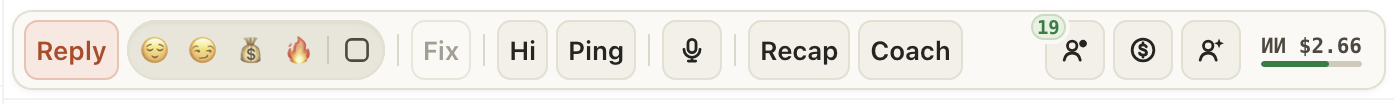
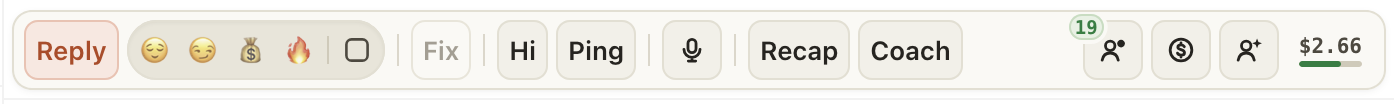
fix(dock): the AI limit is numbers alone — no «ИИ», the words in the hint
The owner: no extra words on the bar, the hint tells the rest. «$2.66 / $4.50»,
short «$2.66»; «котёл $18.40», short «котёл»; red «до 00:00». The widget is
~98 px in full and at most ~67 px short, so the steps of a bar with the limit
move: tight < 748, short < 695, icons < 664, no seams < 621, «Ещё» < 585
(remeasured on both stands, every state; nothing scrolls above ~450).

Changed region(s): [[0.7403, 0.1154, 0.9871, 0.6635], [0.7403, 0.75, 0.9254, 0.7788]]

diff --git a/packages/ui/src/dock/styles.ts b/packages/ui/src/dock/styles.ts
@@ -39,9 +39,9 @@
 //           and the chips closer still (a 320 px column, §6.5)
 //
 // A bar with the person's AI limit (2026-10-31) takes the same steps
-// earlier, measured with «ИИ $2.66 / $4.50» (~117 px of the row): tight
-// < 765, the limit short («ИИ $2.66») < 712, Recap and Coach icons < 663,
-// no seams < 620, the five icons in «Ещё» < 584; nothing scrolls above
+// earlier, measured with «$2.66 / $4.50» (~98 px of the row): tight
+// < 748, the limit short («$2.66») < 695, Recap and Coach icons < 664,
+// no seams < 621, the five icons in «Ещё» < 585; nothing scrolls above
 // ~450.
 //
 // No goose in the bar (decision X31): its cell is the room that keeps every
@@ -74,14 +74,15 @@ export const SEAMS_BELOW = 552;
 export const MORE_BELOW = 420;
 /**
  * The same steps for a bar that carries the person's AI limit (`has-ailimit`: 6 of 8 chatters on 2026-10-31), measured
- * with it on both stands: «ИИ $2.66 / $4.50» takes ~117 px of the row, so every step comes earlier, and below
- * `AI_SHORT_BELOW` the limit itself is short («ИИ $2.66», ~66 px) before Recap and Coach give up their words.
+ * with it on both stands: «$2.66 / $4.50» takes ~98 px of the row, so every step comes earlier, and below
+ * `AI_SHORT_BELOW` the limit itself is short («$2.66»; at most ~67 px, the red «до 00:00») before Recap and Coach
+ * give up their words.
  */
-export const AI_TIGHT_BELOW = 765;
-export const AI_SHORT_BELOW = 712;
-export const AI_ICONS_BELOW = 663;
-export const AI_SEAMS_BELOW = 620;
-export const AI_MORE_BELOW = 584;
+export const AI_TIGHT_BELOW = 748;
+export const AI_SHORT_BELOW = 695;
+export const AI_ICONS_BELOW = 664;
+export const AI_SEAMS_BELOW = 621;
+export const AI_MORE_BELOW = 585;
 
 /** A step of the bar, laid down twice: at its own width for every bar, and at the wider one for a bar with the AI limit. */
 function barStep(below: number, withLimit: number, rules: (strip: string) => string): string {
@@ -303,7 +304,7 @@ ${barStep(
   ${strip} .cg-tones__track { gap: 2px; }
 `,
 )}
-${/* The AI limit short: «ИИ $2.66» over its bar, the limit in the bar's fill and in the hint. */ ''}
+${/* The AI limit short: «$2.66» over its bar, the limit in the bar's fill and in the hint. */ ''}
 @container cg (max-width: ${AI_SHORT_BELOW - 1}px) {
   .cg-ailimit__long { display: none; }
   .cg-ailimit__short { display: inline; }

diff --git a/packages/ui/src/dock/Strip.tsx b/packages/ui/src/dock/Strip.tsx
@@ -92,11 +92,11 @@ function Quota({ count, text }: { readonly count: number; readonly text: string 
 }
 
 /**
- * `ai-limit-v1`: the person's own daily AI limit — «ИИ $1.20 / $3.50» over a thin bar on the bar's right, amber from
- * 80 %, «ИИ котёл $5.39» in amber while it takes from the team's shared pool, red when both are spent («ИИ до 00:00»).
- * On a narrower composer it is short — «ИИ $1.20», «ИИ котёл», «ИИ выкл»: the bar's fill is the share, the rest is in
- * the hint (2026-10-31: in full words the bar ran out of a ~690 px Fansly composer). Its hint says it in words
- * whatever the hints setting is.
+ * `ai-limit-v1`: the person's own daily AI limit — «$1.20 / $3.50» over a thin bar on the bar's right, amber from
+ * 80 %, «котёл $5.39» in amber while it takes from the team's shared pool, red when both are spent («до 00:00»).
+ * No «ИИ» before it (the owner, 2026-10-31: no extra words, the hint tells the rest). On a narrower composer it is
+ * short — «$1.20», «котёл»: the bar's fill is the share (in full it ran out of a ~690 px Fansly composer). Its hint
+ * says it in words whatever the hints setting is.
  */
 function AiLimit({ vm, text, short, tooltip }: { readonly vm: AiLimitVM; readonly text: string; readonly short: string; readonly tooltip: string }): JSX.Element {
   const tip = useTooltip(tooltip);
@@ -125,9 +125,9 @@ function aiLimitText(vm: AiLimitVM, t: Translate): string {
 }
 
 function aiLimitShort(vm: AiLimitVM, t: Translate): string {
-  if (vm.level === 'out') return t('dock.aiLimit.outShort');
+  if (vm.level === 'out') return t('dock.aiLimit.out');
   if (vm.level === 'pool') return t('dock.aiLimit.poolShort');
-  return t('dock.aiLimit.short', { spent: vm.spent });
+  return vm.spent;
 }
 
 function aiLimitTooltip(vm: AiLimitVM, t: Translate): string {

diff --git a/packages/contracts/src/i18n/keys.ts b/packages/contracts/src/i18n/keys.ts
@@ -327,7 +327,7 @@ export const UI_TEXT_KEYS = [
   'popup.personaNone', 'popup.notConnected', 'popup.account', 'popup.signOut', 'popup.dialog', 'popup.dialogAccount', 'popup.copiedId', 'popup.copyChatId',
   'popup.quota', 'popup.quotaLeft', 'popup.quotaReset', 'popup.quotaHubDown', 'popup.btn.spenders', 'popup.btn.newcomers',
   // The person's own daily AI limit (`ai-limit-v1`): the dock's chip, the popup's line, the 80 % and 100 % toasts.
-  'dock.aiLimit.label', 'dock.aiLimit.tooltip', 'dock.aiLimit.tooltipPool', 'dock.aiLimit.pool', 'dock.aiLimit.poolTooltip', 'dock.aiLimit.out', 'dock.aiLimit.short', 'dock.aiLimit.poolShort', 'dock.aiLimit.outShort', 'popup.aiLimit', 'popup.aiLimitValue', 'popup.aiLimitLeft', 'popup.aiLimitResets', 'popup.aiLimitOwnSpent', 'popup.aiLimitPoolLeft', 'popup.aiLimitOff', 'popup.aiLimitTooltip', 'popup.aiNoLimit', 'popup.aiNoLimitTooltip', 'toast.aiLimitLow.title', 'toast.aiLimitLow.body', 'toast.aiLimitLow.bodyPool', 'toast.aiLimitPool.title', 'toast.aiLimitPool.body', 'toast.aiLimitOut.title', 'toast.aiLimitOut.body',
+  'dock.aiLimit.label', 'dock.aiLimit.tooltip', 'dock.aiLimit.tooltipPool', 'dock.aiLimit.pool', 'dock.aiLimit.poolTooltip', 'dock.aiLimit.out', 'dock.aiLimit.poolShort', 'popup.aiLimit', 'popup.aiLimitValue', 'popup.aiLimitLeft', 'popup.aiLimitResets', 'popup.aiLimitOwnSpent', 'popup.aiLimitPoolLeft', 'popup.aiLimitOff', 'popup.aiLimitTooltip', 'popup.aiNoLimit', 'popup.aiNoLimitTooltip', 'toast.aiLimitLow.title', 'toast.aiLimitLow.body', 'toast.aiLimitLow.bodyPool', 'toast.aiLimitPool.title', 'toast.aiLimitPool.body', 'toast.aiLimitOut.title', 'toast.aiLimitOut.body',
   'popup.btn.keys', 'popup.btn.settings', 'popup.whatsNew', 'popup.history', 'popup.refreshStatus', 'popup.version',
   'signIn.title', 'signIn.login', 'signIn.password', 'signIn.submit', 'signIn.pending',
   'settings.label',

diff --git a/packages/core/src/domain/i18n/ru.ts b/packages/core/src/domain/i18n/ru.ts
@@ -1812,15 +1812,13 @@ export const RU: I18nCatalog<'ru'> = {
   'popup.copiedId': 'Номер скопирован',
   'popup.copyChatId': 'Скопировать номер чата {id}',
   'popup.quota': 'Квота ИИ',
-  'dock.aiLimit.label': 'ИИ {spent} / {limit}',
+  'dock.aiLimit.label': '{spent} / {limit}',
   'dock.aiLimit.tooltip': 'Ваш лимит ИИ на сегодня: потрачено {spent} из {limit}. Обнулится в 00:00 по Москве.',
   'dock.aiLimit.tooltipPool': 'Ваш лимит ИИ на сегодня: потрачено {spent} из {limit}. Кончится, и ИИ будет брать из общего котла команды: сейчас в нём {pool}. Обнулится в 00:00 по Москве.',
-  'dock.aiLimit.pool': 'ИИ котёл {pool}',
+  'dock.aiLimit.pool': 'котёл {pool}',
   'dock.aiLimit.poolTooltip': 'Ваш лимит {limit} на сегодня потрачен, ИИ берёт из общего котла команды: это то, что все недотратили вчера. В котле осталось {pool} на всех. Котёл кончится, и ИИ выключится до 00:00 по Москве.',
-  'dock.aiLimit.out': 'ИИ до 00:00',
-  'dock.aiLimit.short': 'ИИ {spent}',
-  'dock.aiLimit.poolShort': 'ИИ котёл',
-  'dock.aiLimit.outShort': 'ИИ выкл',
+  'dock.aiLimit.out': 'до 00:00',
+  'dock.aiLimit.poolShort': 'котёл',
   'popup.aiLimit': 'ИИ сегодня',
   'popup.aiLimitValue': '{spent} из {limit}',
   'popup.aiLimitLeft': 'осталось {left}',

diff --git a/packages/core/src/domain/i18n/en.ts b/packages/core/src/domain/i18n/en.ts
@@ -1709,15 +1709,13 @@ export const EN: I18nCatalog<'en'> = {
   'popup.copyChatId': 'Copy the chat number {id}',
   'popup.copiedId': 'Number copied',
   'popup.quota': 'AI quota',
-  'dock.aiLimit.label': 'AI {spent} / {limit}',
+  'dock.aiLimit.label': '{spent} / {limit}',
   'dock.aiLimit.tooltip': 'Your AI limit for today: {spent} of {limit} spent. It starts over at 00:00 Moscow time.',
   'dock.aiLimit.tooltipPool': 'Your AI limit for today: {spent} of {limit} spent. Past it the AI takes from the team pool, {pool} now. It starts over at 00:00 Moscow time.',
-  'dock.aiLimit.pool': 'AI pool {pool}',
+  'dock.aiLimit.pool': 'pool {pool}',
   'dock.aiLimit.poolTooltip': "Your {limit} for today is spent; the AI takes from the team pool, what everyone left unspent yesterday. {pool} left for everyone. When it is spent, AI is off until 00:00 Moscow time.",
-  'dock.aiLimit.out': 'AI until 00:00',
-  'dock.aiLimit.short': 'AI {spent}',
-  'dock.aiLimit.poolShort': 'AI pool',
-  'dock.aiLimit.outShort': 'AI off',
+  'dock.aiLimit.out': 'until 00:00',
+  'dock.aiLimit.poolShort': 'pool',
   'popup.aiLimit': 'AI today',
   'popup.aiLimitValue': '{spent} of {limit}',
   'popup.aiLimitLeft': '{left} left',

diff --git a/packages/testing/e2e/see/scenarios/ai-limit.see.ts b/packages/testing/e2e/see/scenarios/ai-limit.see.ts
@@ -1,7 +1,7 @@
 // The person's own daily AI limit (`ai-limit-v1`, the owner's; Moscow day, all pages) and the team's shared pool past
-// it: the dock's «ИИ $2.90 / $3.50» in amber with the 80 % toast that names the pool, the popup's line, then Reply
-// past the own limit — «ИИ котёл $0.40» with the «свой лимит кончился» toast, «Ещё раз» spends the pool — the red
-// «ИИ до 00:00», the «кончился» toast and the CG-AI-LIMIT card counting down to 00:00 МСК.
+// it: the dock's «$2.90 / $3.50» in amber with the 80 % toast that names the pool, the popup's line, then Reply
+// past the own limit — «котёл $0.40» with the «свой лимит кончился» toast, «Ещё раз» spends the pool — the red
+// «до 00:00», the «кончился» toast and the CG-AI-LIMIT card counting down to 00:00 МСК.
 
 import { openPopup, waitForPopup } from '../../support/pages';
 import { scenario } from '../kit';

diff --git a/packages/testing/e2e/see/scenarios/dock-widths.see.ts b/packages/testing/e2e/see/scenarios/dock-widths.see.ts
@@ -2,7 +2,7 @@
 // by the bar's own width (and «scrolls» where its row runs past it), then Reply's hint at the second width, then
 // «Размер текста: Обычный» — the bar is the same at either text size (2026-10-22: px rules, the old 13 px buttons).
 // Fansly's composer is 600–940 px wide, ChatSpace's ~540–1020 px. The person has an AI limit, as most chatters do
-// (2026-10-31): the bar carries «ИИ $2.66 / $4.50», and folds by its own steps (`AI_*_BELOW` in ui/src/dock/styles.ts).
+// (2026-10-31): the bar carries «$2.66 / $4.50», and folds by its own steps (`AI_*_BELOW` in ui/src/dock/styles.ts).
 
 import { scenario } from '../kit';
 

diff --git a/changes/bar-fits-ai-limit.md b/changes/bar-fits-ai-limit.md
@@ -5,20 +5,20 @@ sites: chatspace, fansly
 
 # Панель над полем ввода снова помещается целиком, вместе с лимитом ИИ
 
-С лимитом ИИ («ИИ $2.66 / $4.00» справа на панели) ряд стал шире, и в нешироком окне (например, Fansly на
-ноутбуке) лимит уезжал за край: его было видно только наполовину.
+С лимитом ИИ справа на панели ряд стал шире, и в нешироком окне (например, Fansly на ноутбуке) лимит
+уезжал за край: его было видно только наполовину.
 
-Теперь, если места мало, лимит пишется коротко: «ИИ $2.66», сколько потрачено за сегодня. Какая это часть
-лимита, видно по полоске под цифрой, а словами, с остатком и котлом, в подсказке при наведении. Котёл
-коротко «ИИ котёл», когда всё потрачено, «ИИ выкл». Если окно ещё уже, Recap и Coach, как и раньше,
-становятся иконками, а их названия остаются в подсказке.
+Теперь лимит без лишних слов, только цифры: «$2.66 / $4.00», сколько потрачено за сегодня и из скольких.
+Если места мало, остаётся «$2.66», а какая это часть лимита, видно по полоске под цифрой. Наведите на цифры:
+в подсказке всё словами, с остатком и котлом. Когда свой лимит кончился, там «котёл $18.40», когда
+потрачено всё, красное «до 00:00». Если окно ещё уже, Recap и Coach, как и раньше, становятся иконками.
 
-![Панель на окне Fansly шириной около 690 px: лимит коротко, «ИИ $2.66», все кнопки и слова на месте](bar-fits-ai-limit.png)
+![Панель на окне Fansly шириной около 690 px: лимит коротко, «$2.66», все кнопки и слова на месте](bar-fits-ai-limit.png)
 
 ## Как это устроено
 
 Панель сворачивается по своей ширине: ниже каждого порога кнопки сжимаются, потом Recap и Coach становятся
 иконками, потом пропадают разделители. Пороги были посчитаны до лимита ИИ, а «ИИ $2.66 / $4.00» добавил к
-ряду около 117 px. Теперь у панели с лимитом свои пороги, пересчитанные на обоих сайтах: лимит целиком
-виден от ~765 px, короткий «ИИ $2.66» занимает около 66 px, все слова на панели видны от ~665 px, и ряд
-не прокручивается до ~450 px. У кого лимита нет, панель сворачивается как раньше.
+ряду около 117 px. Теперь слова «ИИ» нет, лимит занимает около 98 px, коротко около 48 px, и у панели с
+лимитом свои пороги, пересчитанные на обоих сайтах: лимит целиком виден от ~750 px, все слова на панели
+от ~665 px, и ряд не прокручивается до ~450 px. У кого лимита нет, панель сворачивается как раньше.

diff --git a/tools/see/README.md b/tools/see/README.md
@@ -51,7 +51,7 @@ the text and the media, «Написать N версий», the card's and a ro
 version this window cannot send with why and «Открыть и вставить», «Итог рассылки»; `--site fansly` too), `palette`,
 `fan-panel`, `queues` («Очереди» on both sites over the fake hub's prototype set: the bar's «Очереди 1 ↩», ⌘K's
 group, the fan who answered with his Reply sent, the cold batch queue, Ping, «Пропустить ▾», a paused queue, a queue's
-own message, a portion done), `pages` (popup and settings), `ai-limit` (the person's own daily AI limit on the fake hub: «ИИ $2.90 / $3.50» in the dock with the 80 % toast, the popup's «ИИ сегодня», a Reply that spends it, the «исчерпан» toast and «Ещё раз» refused with CG-AI-LIMIT), `fansly-dock`, `dock-widths` (the bar on narrower composers, Fansly
+own message, a portion done), `pages` (popup and settings), `ai-limit` (the person's own daily AI limit on the fake hub: «$2.90 / $3.50» in the dock with the 80 % toast, the popup's «ИИ сегодня», a Reply that spends it, the «исчерпан» toast and «Ещё раз» refused with CG-AI-LIMIT), `fansly-dock`, `dock-widths` (the bar on narrower composers, Fansly
 first), `log-download` (Hi on in a long chat, Ping off in a short one by its
 gate, pressed, then «Скачать лог» in the popup; the files land in
 the run's `downloads/`). On Fansly (`--site fansly`): `dock`, `reply`, `coach`, `coach-recap`, `recap`, `palette` (⌘K over
